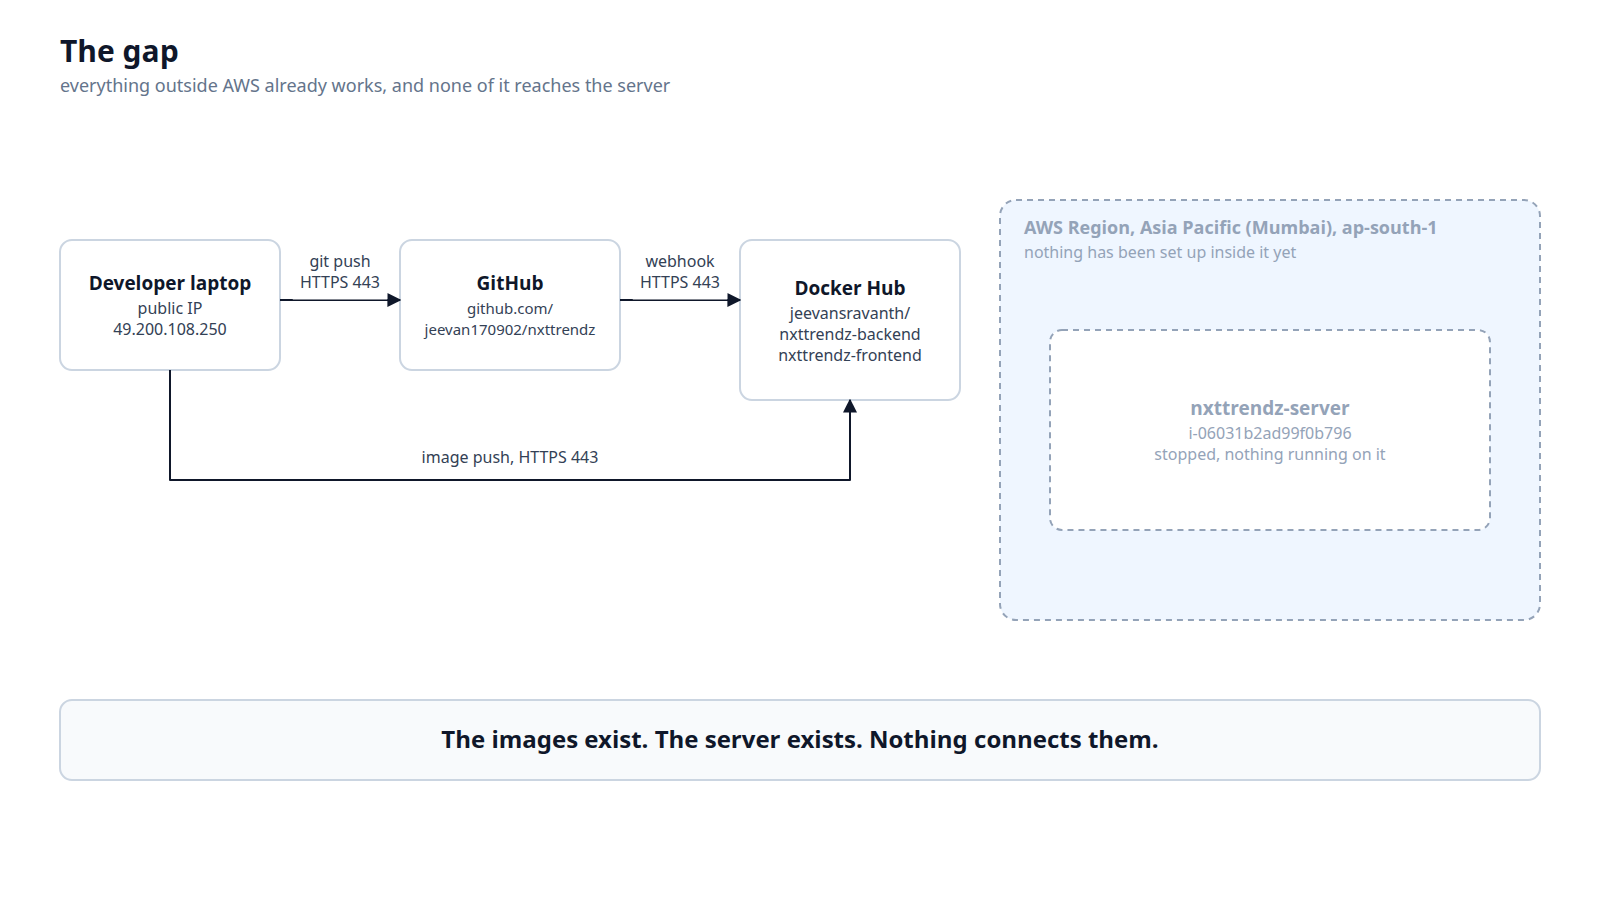
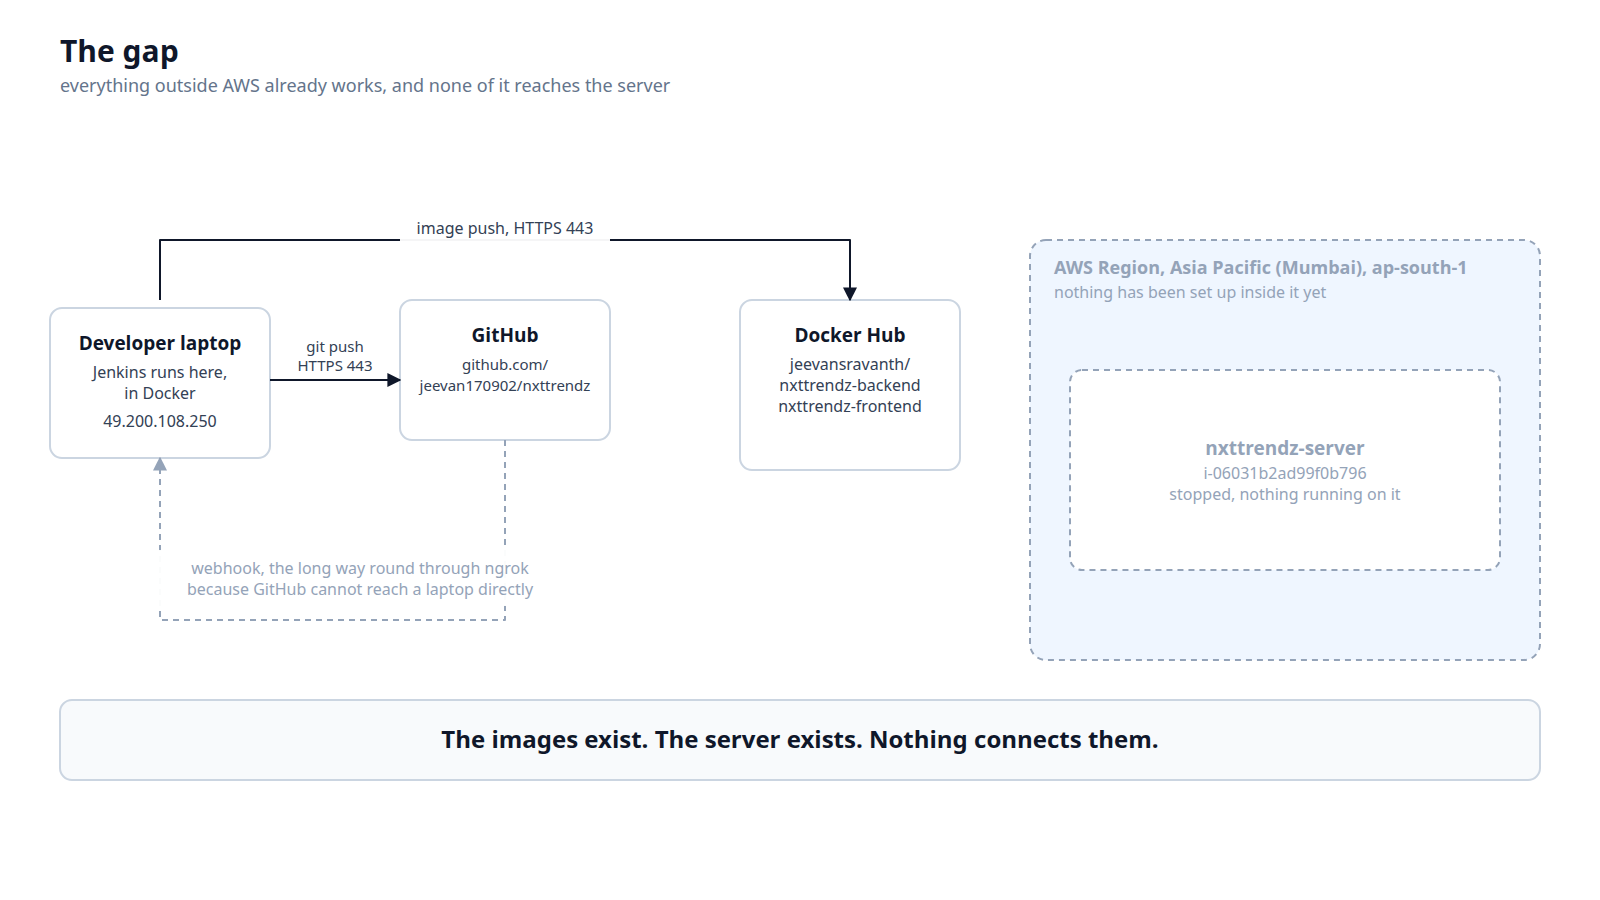
diagrams(session-10): eight architecture states, reviewed and corrected
arch-01 is the frame the user asked for: both servers side by side with
instance type, vCPU and RAM, image, disk, Region, Zone, VPC, subnet and
every inbound rule as port, source and justification, before anything is
created.

Two errors caught on review rather than shipped. arch-02 had the webhook
going from GitHub to Docker Hub, which is wrong: it goes to Jenkins, and at
that point Jenkins is on the laptop behind ngrok, so it is redrawn as the
detour that arch-07 later deletes. arch-08 had the volume cylinder over the
frontend box and the Users arrow landing on the volume instead of the ports.

diff --git a/django_deployement_course/workflow/captures/session-10/MANIFEST.md b/django_deployement_course/workflow/captures/session-10/MANIFEST.md
@@ -314,3 +314,42 @@ existed. That is the honest version and it costs four frames.
 
 The laptop Jenkins still holds a job under the old name. It is superseded by
 the EC2 one and nothing points at it any more.
+
+## The architecture diagrams
+
+`diagrams/`, eight SVGs with matching 1600x900 PNGs. The SVGs are plain
+editable text, so a value can be corrected without regenerating anything.
+
+Rendered with headless Chrome, because neither rsvg-convert nor inkscape is on
+this machine. At `--window-size=1600,900` Chrome silently clips the bottom
+32 px, so they are shot at 1600x1000 and cropped. Worth knowing before anyone
+re-renders one.
+
+| File | Shown before | What it adds |
+|---|---|---|
+| `arch-01-what-we-require` | **anything is created** | The specification sheet. Both servers with type, vCPU, RAM, image, disk, Region, Zone, VPC, subnet, and every inbound rule as port / source / why. Plus what is deliberately not required |
+| `arch-02-the-gap` | the opening | Laptop with Jenkins behind ngrok, GitHub, Docker Hub. AWS dashed and empty. No line reaches it |
+| `arch-03-ssh-in` | the first SSH | The instance solid, one arrow, port 22 with the key named |
+| `arch-04-containers` | `compose up` | Two containers and the volume. 3000 and 8000 still shut |
+| `arch-05-doors-open` | the rule is saved | The door band: 22, 3000, 8000 ticked, **5432 crossed out with no rule and no container** |
+| `arch-06-elastic-ip` | the Elastic IP | The pinned address, the three it replaced struck through |
+| `arch-07-jenkins-joins` | the second instance | Both servers in the VPC, GitHub straight to Jenkins, the private SSH hop labelled with **why** the rule allows it, and "ngrok is no longer needed" |
+| `arch-08-finished` | the closing frame | The whole system, four stages listed, and `git push` marked as the only human action |
+
+### Two corrections made during review
+
+The first render of `arch-02` drew the webhook arrow from **GitHub to Docker
+Hub**, which is wrong: a webhook goes to Jenkins, and at that point Jenkins is
+on the laptop behind ngrok. Redrawn so the webhook loops back to the laptop the
+long way round, which also sets up `arch-07` deleting that loop.
+
+`arch-08` had the volume cylinder overlapping the frontend box, and the Users
+arrow terminating on the volume rather than on the app's ports. Both fixed.
+
+### Known limits
+
+- Rendered with the DejaVu fallback, because Segoe UI is not installed here.
+  DejaVu is wider, so on a machine with Segoe UI every label gets slightly more
+  room, never less.
+- `arch-03` is deliberately sparse. Nothing is running inside the Region yet,
+  which reads correctly in sequence and looks empty on its own.
